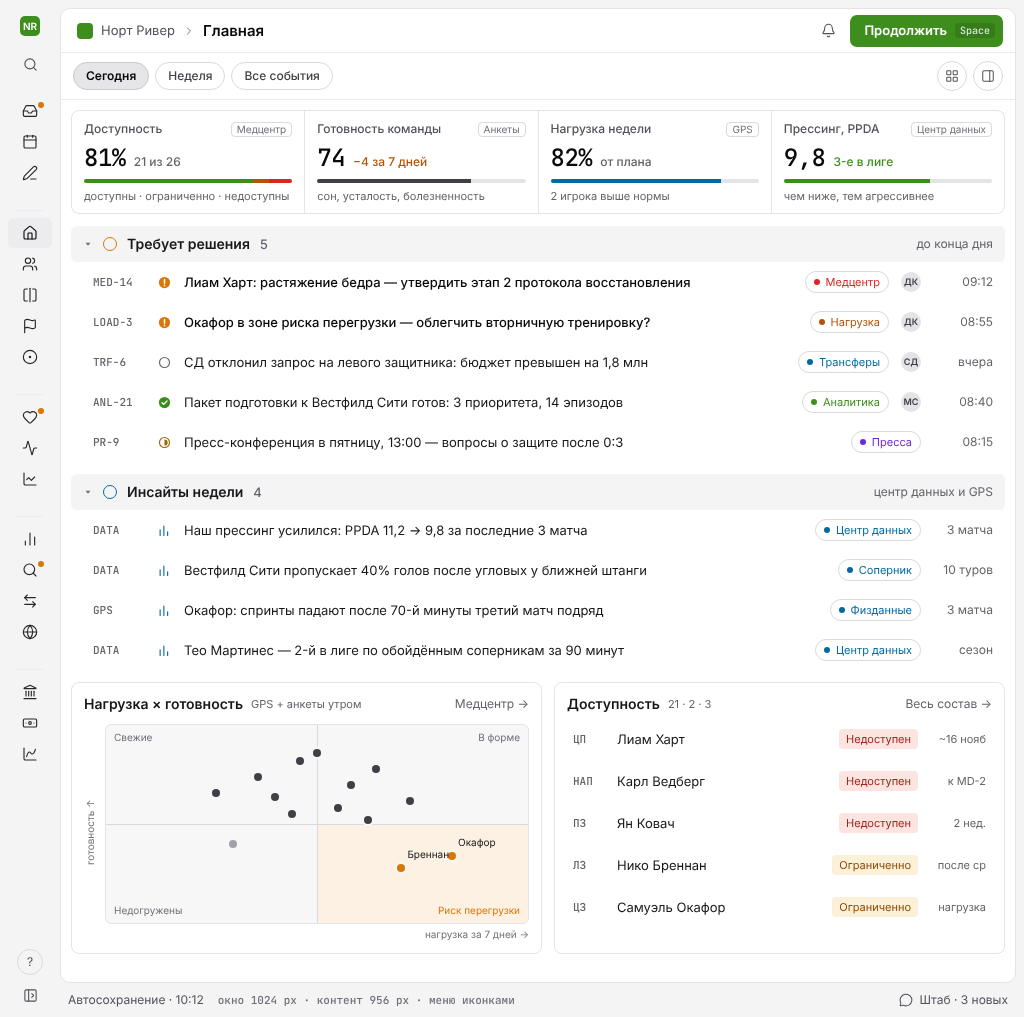
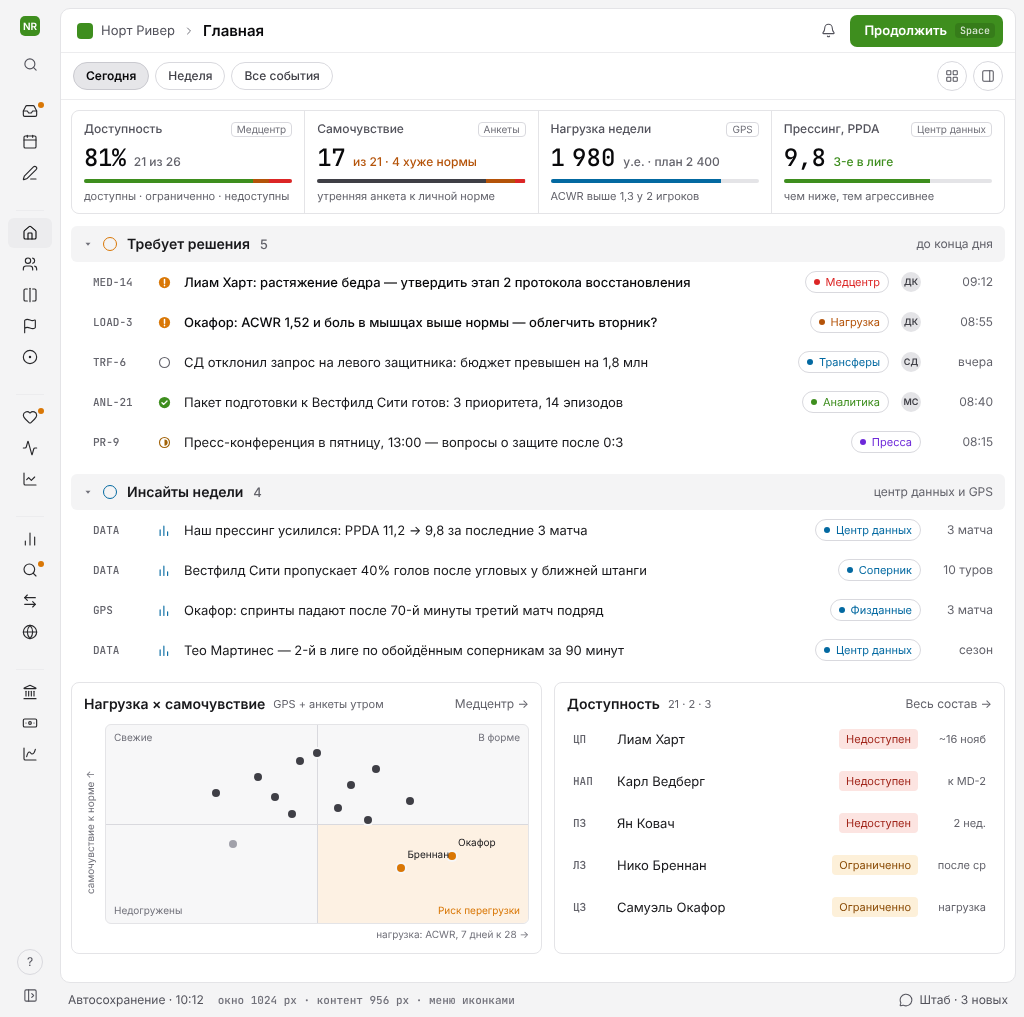
feat: wellness vs norm and load in AU on the home screen (ADR-020)
Claude-Session: https://claude.ai/code/session_01KAn8VGoGMhhnsHYCJLpM8K

diff --git a/apps/desktop/src/renderer/src/screens/home/homeData.ts b/apps/desktop/src/renderer/src/screens/home/homeData.ts
@@ -46,7 +46,7 @@ export const DECISIONS: FeedGroup = {
     {
       code: 'LOAD-3',
       status: 'urgent',
-      title: 'Окафор в зоне риска перегрузки — облегчить вторничную тренировку?',
+      title: 'Окафор: ACWR 1,52 и боль в мышцах выше нормы — облегчить вторник?',
       chip: { label: 'Нагрузка', tone: 'caution' },
       owner: 'ДК',
       meta: '08:55',
@@ -197,22 +197,27 @@ export const KPIS: Kpi[] = [
     note: 'доступны · ограниченно · недоступны',
   },
   {
-    label: 'Готовность команды',
+    label: 'Самочувствие',
     source: 'Анкеты',
-    value: '74',
-    delta: '−4 за 7 дней',
+    value: '17',
+    delta: 'из 21 · 4 хуже нормы',
     deltaTone: 'caution',
-    bars: [{ percent: 74, tone: 'neutral' }],
-    note: 'сон, усталость, болезненность',
+    bars: [
+      { percent: 81, tone: 'neutral' },
+      { percent: 14, tone: 'caution' },
+      { percent: 5, tone: 'danger' },
+    ],
+    note: 'утренняя анкета к личной норме',
   },
   {
     label: 'Нагрузка недели',
     source: 'GPS',
-    value: '82%',
-    delta: 'от плана',
+    // Narrow no-break space as the thousands separator: a regular one is a full cell wide in the mono font.
+    value: '1\u202f980',
+    delta: 'у.е. · план 2 400',
     deltaTone: 'neutral',
     bars: [{ percent: 82, tone: 'info' }],
-    note: '2 игрока выше нормы',
+    note: 'ACWR выше 1,3 у 2 игроков',
   },
   {
     label: 'Прессинг, PPDA',
@@ -227,30 +232,31 @@ export const KPIS: Kpi[] = [
 
 export type LoadZone = 'risk' | 'fit' | 'under'
 
-/** Load × readiness quadrant. `zone` is precomputed (later by the core), the UI only colors it. */
+/** Load (ACWR) × wellness-vs-norm quadrant. `zone` is precomputed (later by the core), the UI only colors it. */
 export interface LoadPoint {
   name: string
   load: number
-  readiness: number
+  /** Wellness relative to the player's own norm, 0–100 on the chart (50 = at norm). */
+  wellness: number
   zone: LoadZone
   labelled?: boolean
 }
 
 export const LOAD_POINTS: LoadPoint[] = [
-  { name: 'Окафор', load: 82, readiness: 34, zone: 'risk', labelled: true },
-  { name: 'Бреннан', load: 70, readiness: 28, zone: 'risk', labelled: true },
-  { name: 'Мартинес', load: 64, readiness: 78, zone: 'fit' },
-  { name: 'Ли', load: 58, readiness: 70, zone: 'fit' },
-  { name: 'Ковач', load: 46, readiness: 82, zone: 'fit' },
-  { name: 'Абади', load: 40, readiness: 64, zone: 'fit' },
-  { name: 'Росси', load: 55, readiness: 58, zone: 'fit' },
-  { name: 'Нгуен', load: 36, readiness: 74, zone: 'fit' },
-  { name: 'Фокс', load: 72, readiness: 62, zone: 'fit' },
-  { name: 'Дюбуа', load: 30, readiness: 40, zone: 'under' },
-  { name: 'Сато', load: 50, readiness: 86, zone: 'fit' },
-  { name: 'Мбеки', load: 62, readiness: 52, zone: 'fit' },
-  { name: 'Хольм', load: 44, readiness: 55, zone: 'fit' },
-  { name: 'Перес', load: 26, readiness: 66, zone: 'fit' },
+  { name: 'Окафор', load: 82, wellness: 34, zone: 'risk', labelled: true },
+  { name: 'Бреннан', load: 70, wellness: 28, zone: 'risk', labelled: true },
+  { name: 'Мартинес', load: 64, wellness: 78, zone: 'fit' },
+  { name: 'Ли', load: 58, wellness: 70, zone: 'fit' },
+  { name: 'Ковач', load: 46, wellness: 82, zone: 'fit' },
+  { name: 'Абади', load: 40, wellness: 64, zone: 'fit' },
+  { name: 'Росси', load: 55, wellness: 58, zone: 'fit' },
+  { name: 'Нгуен', load: 36, wellness: 74, zone: 'fit' },
+  { name: 'Фокс', load: 72, wellness: 62, zone: 'fit' },
+  { name: 'Дюбуа', load: 30, wellness: 40, zone: 'under' },
+  { name: 'Сато', load: 50, wellness: 86, zone: 'fit' },
+  { name: 'Мбеки', load: 62, wellness: 52, zone: 'fit' },
+  { name: 'Хольм', load: 44, wellness: 55, zone: 'fit' },
+  { name: 'Перес', load: 26, wellness: 66, zone: 'fit' },
 ]
 
 export type Availability = 'ok' | 'limited' | 'out'

diff --git a/apps/desktop/src/renderer/src/screens/home/Widgets.tsx b/apps/desktop/src/renderer/src/screens/home/Widgets.tsx
@@ -89,18 +89,18 @@ export function LoadQuadrant({ fullWidth }: { fullWidth: boolean }) {
     >
       <CardHeader
         id="h-quad"
-        title="Нагрузка × готовность"
+        title="Нагрузка × самочувствие"
         hint="GPS + анкеты утром"
         link="Медцентр"
       />
       <div className="flex gap-2">
         <div className="rotate-180 text-center text-micro text-fg-faint [writing-mode:vertical-rl]">
-          готовность ↑
+          самочувствие к норме ↑
         </div>
         <div className="flex flex-1 flex-col gap-1">
           <div
             role="img"
-            aria-label="Точечный график: игроки по нагрузке и готовности; в зоне риска Окафор и Бреннан"
+            aria-label="Точечный график: игроки по ACWR и самочувствию к личной норме; в зоне риска Окафор и Бреннан"
             className="relative h-[200px] overflow-hidden rounded-md border border-line-card bg-surface-sunken"
           >
             <div className="absolute top-1/2 right-0 bottom-0 left-1/2 bg-risk-zone" />
@@ -116,7 +116,7 @@ export function LoadQuadrant({ fullWidth }: { fullWidth: boolean }) {
               <span
                 key={p.name}
                 title={p.name}
-                style={{ left: `${p.load}%`, top: `${100 - p.readiness}%` }}
+                style={{ left: `${p.load}%`, top: `${100 - p.wellness}%` }}
                 className={cn(
                   '-mt-1 -ml-1 absolute size-2 rounded-full shadow-[0_0_0_2px_var(--surface-sunken)]',
                   ZONE_DOT[p.zone],
@@ -126,14 +126,14 @@ export function LoadQuadrant({ fullWidth }: { fullWidth: boolean }) {
             {LOAD_POINTS.filter((p) => p.labelled).map((p) => (
               <span
                 key={`${p.name}-label`}
-                style={{ left: `${p.load}%`, top: `${100 - p.readiness}%` }}
+                style={{ left: `${p.load}%`, top: `${100 - p.wellness}%` }}
                 className="-mt-5 ml-1.5 absolute whitespace-nowrap text-micro text-fg"
               >
                 {p.name}
               </span>
             ))}
           </div>
-          <div className="text-right text-micro text-fg-faint">нагрузка за 7 дней →</div>
+          <div className="text-right text-micro text-fg-faint">нагрузка: ACWR, 7 дней к 28 →</div>
         </div>
       </div>
     </section>

diff --git a/docs/reports/T001.md b/docs/reports/T001.md
@@ -122,6 +122,10 @@ npm run dev:web
 4. **Иконки меню** — ближайшие из Lucide, несколько выглядят иначе.
 5. **Светлая тема** — по тем же ролям; главная кнопка в ней тёмно-зелёная с белым текстом (на светлом фоне ярко-зелёная с тёмным текстом плохо читается). Эталона светлой темы в макетах нет.
 
+## Шаг 2, доработка: самочувствие и нагрузка (ADR-020)
+
+Дата: 2026-10-26. Показатели главной приведены к обновлённым макетам: «Самочувствие» (17 из 21 в личной норме, 4 хуже нормы) вместо «Готовности команды», «Нагрузка недели» в у.е. против плана, график «Нагрузка × самочувствие» с осями ACWR и самочувствие к норме, новый текст решения LOAD-3. Данные — заглушки. Разряды чисел в моноширинном шрифте разделяются узким неразрывным пробелом. Сверка на 1440 / 1200 / 1024 / 800 — совпадает, кроме отличий, перечисленных выше.
+
 ## Шаги 3–6
 
 Не начаты.
